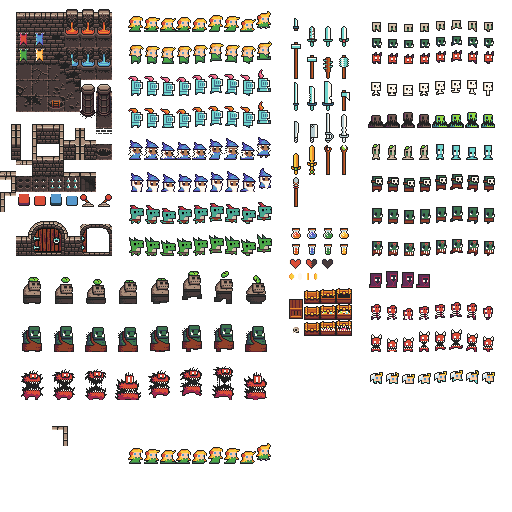
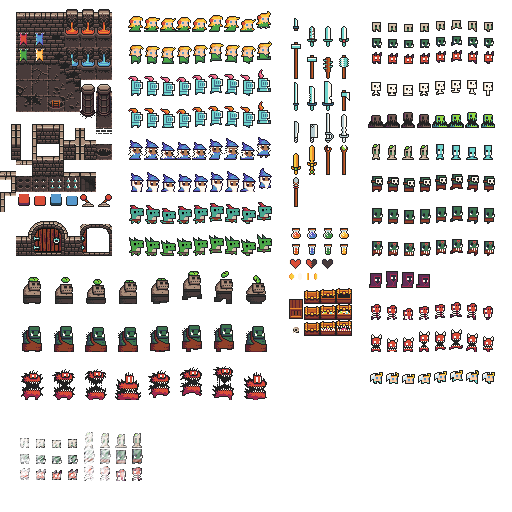
+ Monsters spawning animation

Changed region(s): [[0.0312, 0.8125, 0.5312, 0.9375]]

diff --git a/src/animations/MonsterAnimation.ts b/src/animations/MonsterAnimation.ts
@@ -17,6 +17,13 @@ export const createMonsterAnims = (anims: Phaser.Animations.AnimationManager) =>
         frameRate: 7
     })
 
+    anims.create({
+        key: 'tiny-zombie-appear',
+        frames: anims.generateFrameNumbers('animations_tiny_and_medium_monsters', { start: 865, end: 868 }),
+        repeat: -1,
+        frameRate: 3
+    })
+
     // Tiny goblin
     anims.create({
         key: 'tiny-goblin-idle',
@@ -32,6 +39,13 @@ export const createMonsterAnims = (anims: Phaser.Animations.AnimationManager) =>
         frameRate: 10
     })
 
+    anims.create({
+        key: 'tiny-goblin-appear',
+        frames: anims.generateFrameNumbers('animations_tiny_and_medium_monsters', { start: 896, end: 900 }),
+        repeat: -1,
+        frameRate: 3
+    })
+
     // Tiny demon
     anims.create({
         key: 'tiny-demon-idle',
@@ -45,6 +59,13 @@ export const createMonsterAnims = (anims: Phaser.Animations.AnimationManager) =>
         frames: anims.generateFrameNumbers('animations_tiny_and_medium_monsters', { start: 123, end: 126 }),
         repeat: -1,
         frameRate: 10
+    })
+
+    anims.create({
+        key: 'tiny-demon-appear',
+        frames: anims.generateFrameNumbers('animations_tiny_and_medium_monsters', { start: 928, end: 932 }),
+        repeat: -1,
+        frameRate: 3
     })
 
     // ---------- MEDIUM MONSTERS -------------
@@ -63,6 +84,13 @@ export const createMonsterAnims = (anims: Phaser.Animations.AnimationManager) =>
         frameRate: 7
     })
 
+    anims.create({
+        key: 'medium-zombie-appear',
+        frames: anims.generateFrameNumbers('animations_tiny_and_medium_monsters', { start: 869, end: 872 }),
+        repeat: -1,
+        frameRate: 3
+    })
+
     // Medium goblin
     anims.create({
         key: 'medium-goblin-idle',
@@ -76,6 +104,13 @@ export const createMonsterAnims = (anims: Phaser.Animations.AnimationManager) =>
         frames: anims.generateFrameNumbers('animations_tiny_and_medium_monsters', { start: 443, end: 446 }),
         repeat: -1,
         frameRate: 7
+    })
+
+    anims.create({
+        key: 'medium-goblin-appear',
+        frames: anims.generateFrameNumbers('animations_tiny_and_medium_monsters', { start: 901, end: 904 }),
+        repeat: -1,
+        frameRate: 3
     })
 
     // Medium demon
@@ -92,6 +127,13 @@ export const createMonsterAnims = (anims: Phaser.Animations.AnimationManager) =>
         repeat: -1,
         frameRate: 5
     })
+
+    anims.create({
+        key: 'medium-demon-appear',
+        frames: anims.generateFrameNumbers('animations_tiny_and_medium_monsters', { start: 933, end: 936 }),
+        repeat: -1,
+        frameRate: 3
+    })
     
 
     // ---------- BIG MONSTERS -------------
@@ -99,10 +141,10 @@ export const createMonsterAnims = (anims: Phaser.Animations.AnimationManager) =>
     anims.create({
         key: 'big-demon-run',
         frames: [
-            {key:'big_demon_idle_anim_f0'},
-            {key:'big_demon_idle_anim_f1'},
-            {key:'big_demon_idle_anim_f2'},
-            {key:'big_demon_idle_anim_f3'}
+            {key:'big_demon_run_anim_f0'},
+            {key:'big_demon_run_anim_f1'},
+            {key:'big_demon_run_anim_f2'},
+            {key:'big_demon_run_anim_f3'}
         ],
         repeat: -1,
         frameRate: 5
@@ -119,15 +161,27 @@ export const createMonsterAnims = (anims: Phaser.Animations.AnimationManager) =>
         repeat: -1,
         frameRate: 5
     })
+
+    anims.create({
+        key: 'big-demon-appear',
+        frames: [
+            {key:'big_demon_appear_anim_f0'},
+            {key:'big_demon_appear_anim_f1'},
+            {key:'big_demon_appear_anim_f2'},
+            {key:'big_demon_appear_anim_f3'}
+        ],
+        repeat: -1,
+        frameRate: 3
+    })
     
     // Big goblin
     anims.create({
         key: 'big-goblin-run',
         frames: [
-            {key:'ogre_idle_anim_f0'},
-            {key:'ogre_idle_anim_f1'},
-            {key:'ogre_idle_anim_f2'},
-            {key:'ogre_idle_anim_f3'}
+            {key:'ogre_run_anim_f0'},
+            {key:'ogre_run_anim_f1'},
+            {key:'ogre_run_anim_f2'},
+            {key:'ogre_run_anim_f3'}
         ],
         repeat: -1,
         frameRate: 5
@@ -144,15 +198,27 @@ export const createMonsterAnims = (anims: Phaser.Animations.AnimationManager) =>
         repeat: -1,
         frameRate: 5
     })
+
+    anims.create({
+        key: 'big-goblin-appear',
+        frames: [
+            {key:'ogre_appear_anim_f0'},
+            {key:'ogre_appear_anim_f1'},
+            {key:'ogre_appear_anim_f2'},
+            {key:'ogre_appear_anim_f3'}
+        ],
+        repeat: -1,
+        frameRate: 3
+    })
     
     // Big zombie
     anims.create({
         key: 'big-zombie-run',
         frames: [
-            {key:'big_zombie_idle_anim_f0'},
-            {key:'big_zombie_idle_anim_f1'},
-            {key:'big_zombie_idle_anim_f2'},
-            {key:'big_zombie_idle_anim_f3'}
+            {key:'big_zombie_run_anim_f0'},
+            {key:'big_zombie_run_anim_f1'},
+            {key:'big_zombie_run_anim_f2'},
+            {key:'big_zombie_run_anim_f3'}
         ],
         repeat: -1,
         frameRate: 5
@@ -168,5 +234,17 @@ export const createMonsterAnims = (anims: Phaser.Animations.AnimationManager) =>
         ],
         repeat: -1,
         frameRate: 5
+    })
+    
+    anims.create({
+        key: 'big-zombie-appear',
+        frames: [
+            {key:'big_zombie_appear_anim_f0'},
+            {key:'big_zombie_appear_anim_f1'},
+            {key:'big_zombie_appear_anim_f2'},
+            {key:'big_zombie_appear_anim_f3'}
+        ],
+        repeat: -1,
+        frameRate: 3
     })
 }

diff --git a/src/enemies/Monster.ts b/src/enemies/Monster.ts
@@ -23,16 +23,23 @@ export default class Monster extends Phaser.Physics.Arcade.Sprite {
         super(scene, x, y, texture, frame)
 
 
+        // Default value ovewritten later
         this.monsterType = MonsterConstantsType.DEMON
         this.monsterSize = MonsterConstantsSize.BIG
-        //this.healthBar = new HealthBar(this.scene, 0, 0)
 
+        let this_ = this
+        this.on('animationrepeat', function(){
+            this_.playAnim("run")
+            this_.body.enable = true
+            this_.body.onCollide = true
+            this_.healthBar = new HealthBar(this_.scene, 0, -this_.body.height/2 - 15+ this_.body.offset.y)  
+            this_.removeListener('animationrepeat')
+        })
         this.setInfo()
     }
 
     initialize(){
         this.setMonsterSize(this.monsterSize)
-        this.healthBar = new HealthBar(this.scene, 0, -this.body.height/2 - 15+ this.body.offset.y)  
     }
 
     destroy(fromScene?: boolean): void {
@@ -90,8 +97,8 @@ export default class Monster extends Phaser.Physics.Arcade.Sprite {
         return this.health
     }
 
-    playAnim(){
-        this.anims.play(this.monsterSize+'-'+this.monsterType+'-run')
+    playAnim(animKey:string='appear'){
+        this.anims.play(this.monsterSize + '-' + this.monsterType + '-' + animKey)
     }
 
     protected preUpdate(time: number, delta: number): void {

diff --git a/src/scenes/Preloader.ts b/src/scenes/Preloader.ts
@@ -44,11 +44,14 @@ export default class Preloader extends Phaser.Scene {
         // Or load the entire tileset with different frame size.
 
         // Load big monsters
-        for(let i=0; i < 4; i++){
-            this.load.image('big_demon_idle_anim_f' + i.toString(), 'frames/big_demon_idle_anim_f'+ i.toString()+'.png')
-            this.load.image('big_zombie_idle_anim_f' + i.toString(), 'frames/big_zombie_idle_anim_f'+ i.toString()+'.png')
-            this.load.image('ogre_idle_anim_f' + i.toString(), 'frames/ogre_idle_anim_f'+ i.toString()+'.png')
-        }
+        let ar = ["idle", "appear", "run"]
+        ar.forEach(element => {
+            for(let i=0; i < 4; i++){
+                this.load.image(`big_demon_${element}_anim_f` + i.toString(), `frames/big_demon_${element}_anim_f`+ i.toString()+'.png')
+                this.load.image(`big_zombie_${element}_anim_f` + i.toString(), `frames/big_zombie_${element}_anim_f`+ i.toString()+'.png')
+                this.load.image(`ogre_${element}_anim_f` + i.toString(), `frames/ogre_${element}_anim_f`+ i.toString()+'.png')
+            }
+        });
 
         // loading for big monsters
         this.load.spritesheet('animations_big_monsters', 'tiles/dungeon_tiles_full2.png', { frameWidth: 16, frameHeight: 36 })

diff --git a/src/scenes/Game.ts b/src/scenes/Game.ts
@@ -122,7 +122,7 @@ export default class Game extends Phaser.Scene{
             classType: Monster,
             createCallback: (go) => {
                 const enemyGo = go as Monster
-                enemyGo.body.onCollide = true
+                enemyGo.body.enable = false
                 enemyGo.setBounce(1)
                 enemyGo.setInteractive()
                 enemyGo.initialize()
